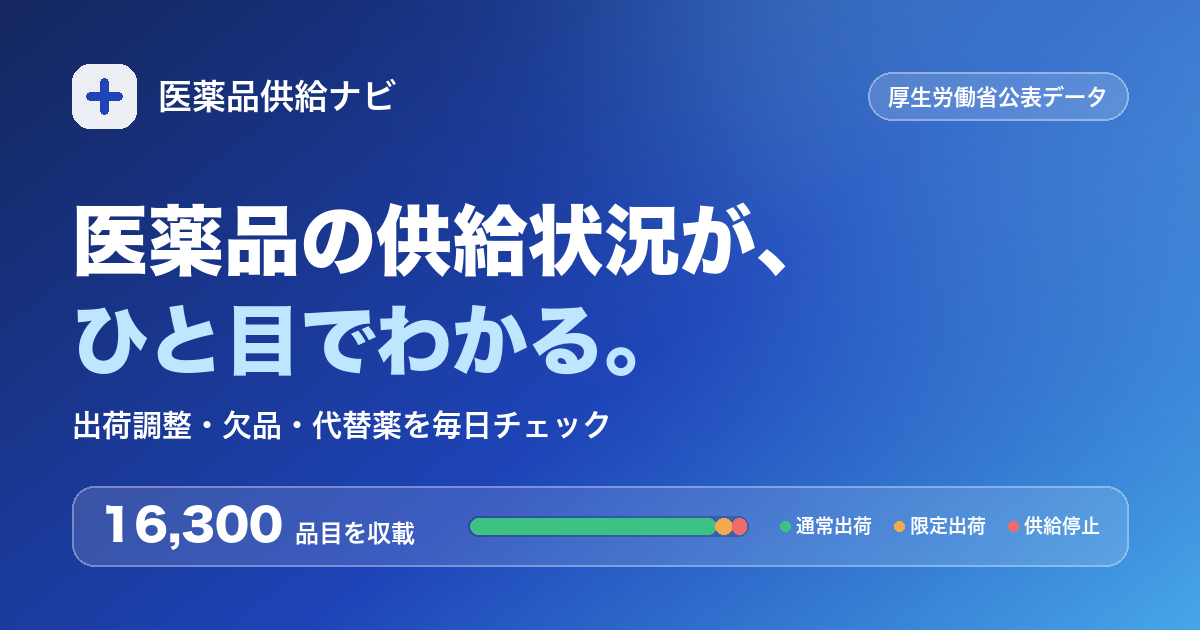
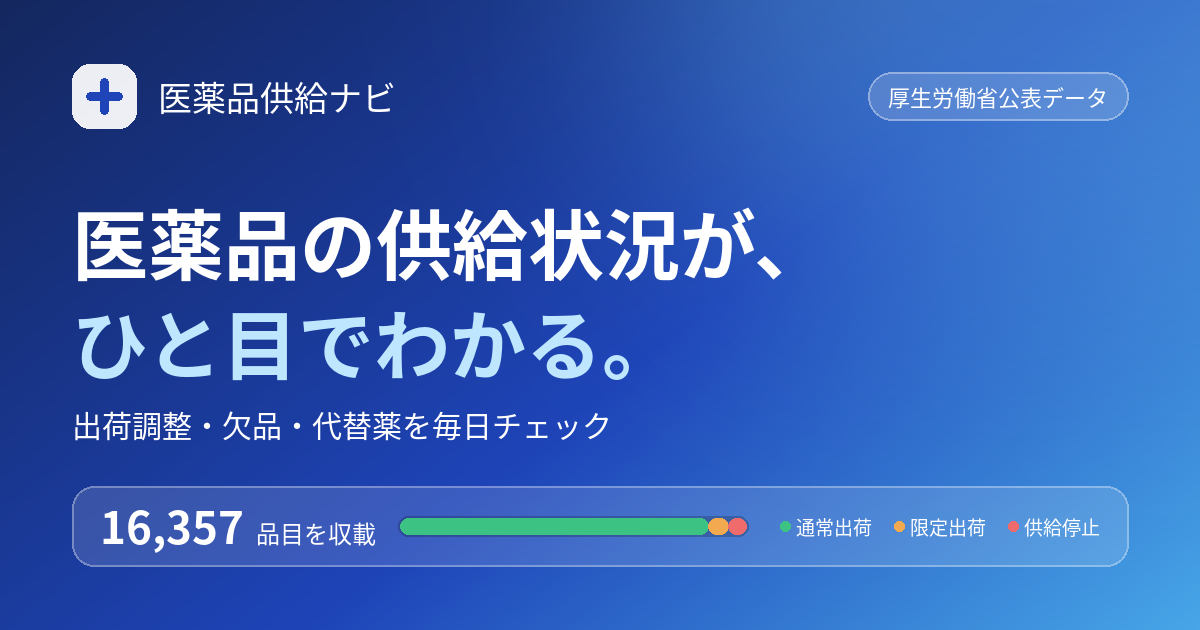
LP同期: DrugSupplyNavi-Web main から自動反映

diff --git a/index.html b/index.html
@@ -257,6 +257,13 @@ h1 .grad{
 .pulse-total small{font-size:.38em;font-weight:700;opacity:.85;margin-left:4px}
 .pulse-sub{font-size:12.5px;opacity:.78;margin-bottom:20px}
 .supply-bar{display:flex;height:14px;border-radius:99px;overflow:hidden;box-shadow:inset 0 1px 3px rgba(0,0,0,.25);margin-bottom:16px}
+/* 実データ読込前のプレースホルダー。具体的な比率を示さない中立の帯 */
+.sbar-skeleton{flex:1;background:rgba(255,255,255,.16)}
+/* 「—」と実数値で幅が変わるとレイアウトがずれるため、最小幅を確保しておく */
+#counter{display:inline-block;min-width:3.6ch}
+.float-chip .big{min-width:2.6ch;display:inline-block}
+/* 凡例は実データが載るまで高さだけ確保して空にしておく */
+.legend:empty{min-height:19px}
 .supply-bar span{transform-origin:left;animation:grow 1.1s cubic-bezier(.2,.8,.2,1) both .3s}
 @keyframes grow{from{transform:scaleX(0)}}
 .legend{display:flex;flex-wrap:wrap;gap:12px 14px;font-size:12px;position:relative;padding-right:86px}
@@ -890,23 +897,18 @@ footer a:hover{color:var(--blue)}
   <div class="hero-visual">
     <div class="pulse-card">
       <div class="pulse-head"><span>SUPPLY PULSE</span><span id="today" class="num"></span></div>
-      <div class="pulse-total"><span class="num" id="counter">0</span><small>品目を収載</small></div>
-      <div class="pulse-sub">全国の医療用医薬品の供給ステータスを毎日集計</div>
-      <div class="supply-bar" id="sbar">
-        <span style="width:76%;background:linear-gradient(90deg,#3CC383,#2FAE6E)"></span>
-        <span style="width:15%;background:linear-gradient(90deg,#F2A94F,#E8912F);animation-delay:.5s"></span>
-        <span style="width:6%;background:linear-gradient(90deg,#F06B6B,#E14D4D);animation-delay:.65s"></span>
-        <span style="width:3%;background:linear-gradient(90deg,#A5876C,#8A6A52);animation-delay:.8s"></span>
+      <div class="pulse-total"><span class="num" id="counter">—</span><small>品目を収載</small></div>
+      <div class="pulse-sub" id="pulseSub">全国の医療用医薬品の供給ステータスを毎日集計</div>
+      <!-- 帯グラフ・凡例・数値は、実データを読み込むまで具体的な値を出さない。
+           固定値を置いておくと、取得に失敗したときに根拠のない数字が
+           本物の集計のように表示され続けてしまう（供給状況を扱う以上これは避ける） -->
+      <div class="supply-bar" id="sbar" aria-hidden="true">
+        <span class="sbar-skeleton"></span>
       </div>
-      <div class="legend" id="legend">
-        <div><span class="dot" style="color:#3CC383;background:#3CC383"></span>通常出荷 76%</div>
-        <div><span class="dot" style="color:#F2A94F;background:#F2A94F"></span>限定出荷 15%</div>
-        <div><span class="dot" style="color:#F06B6B;background:#F06B6B"></span>供給停止 6%</div>
-        <div><span class="dot" style="color:#B08E73;background:#B08E73"></span>販売中止 3%</div>
-      </div>
+      <div class="legend" id="legend"></div>
     </div>
-    <div class="float-chip glass chip1"><span class="big num" id="chipLim">2,441</span>限定出荷</div>
-    <div class="float-chip glass chip2"><span class="big num" id="chipStop">977</span>供給停止</div>
+    <div class="float-chip glass chip1"><span class="big num" id="chipLim">—</span>限定出荷</div>
+    <div class="float-chip glass chip2"><span class="big num" id="chipStop">—</span>供給停止</div>
   </div>
 </header>
 
@@ -2179,7 +2181,7 @@ function countUp(total){
     if(p < 1) requestAnimationFrame(tick);
   })(t0);
 }
-countUp(16280);
+// 総品目数は実データ読込後に countUp() する（固定値を先に見せない）
 const today = new Date();
 document.getElementById("today").textContent =
   `${today.getFullYear()}.${String(today.getMonth()+1).padStart(2,"0")}.${String(today.getDate()).padStart(2,"0")} 時点`;
@@ -2246,7 +2248,13 @@ async function fetchFirst(urls){
 
 (async function loadRealData(){
   const res = await fetchFirst(CSV_SOURCES);
-  if(!res) return; // 取得失敗時はサンプル表示のまま
+  if(!res){
+    // 取得失敗。ヒーローの数値はプレースホルダーのまま据え置き、
+    // 集計を出せていないことを明示する（固定値を本物のように見せない）
+    document.getElementById("pulseSub").textContent =
+      "供給状況データを取得できませんでした。時間をおいて再読み込みしてください。";
+    return;
+  }
   const rows = parseCSV((await res.text()).replace(/^/,""));
   const head = rows.shift();
   const col = name => head.indexOf(name);
